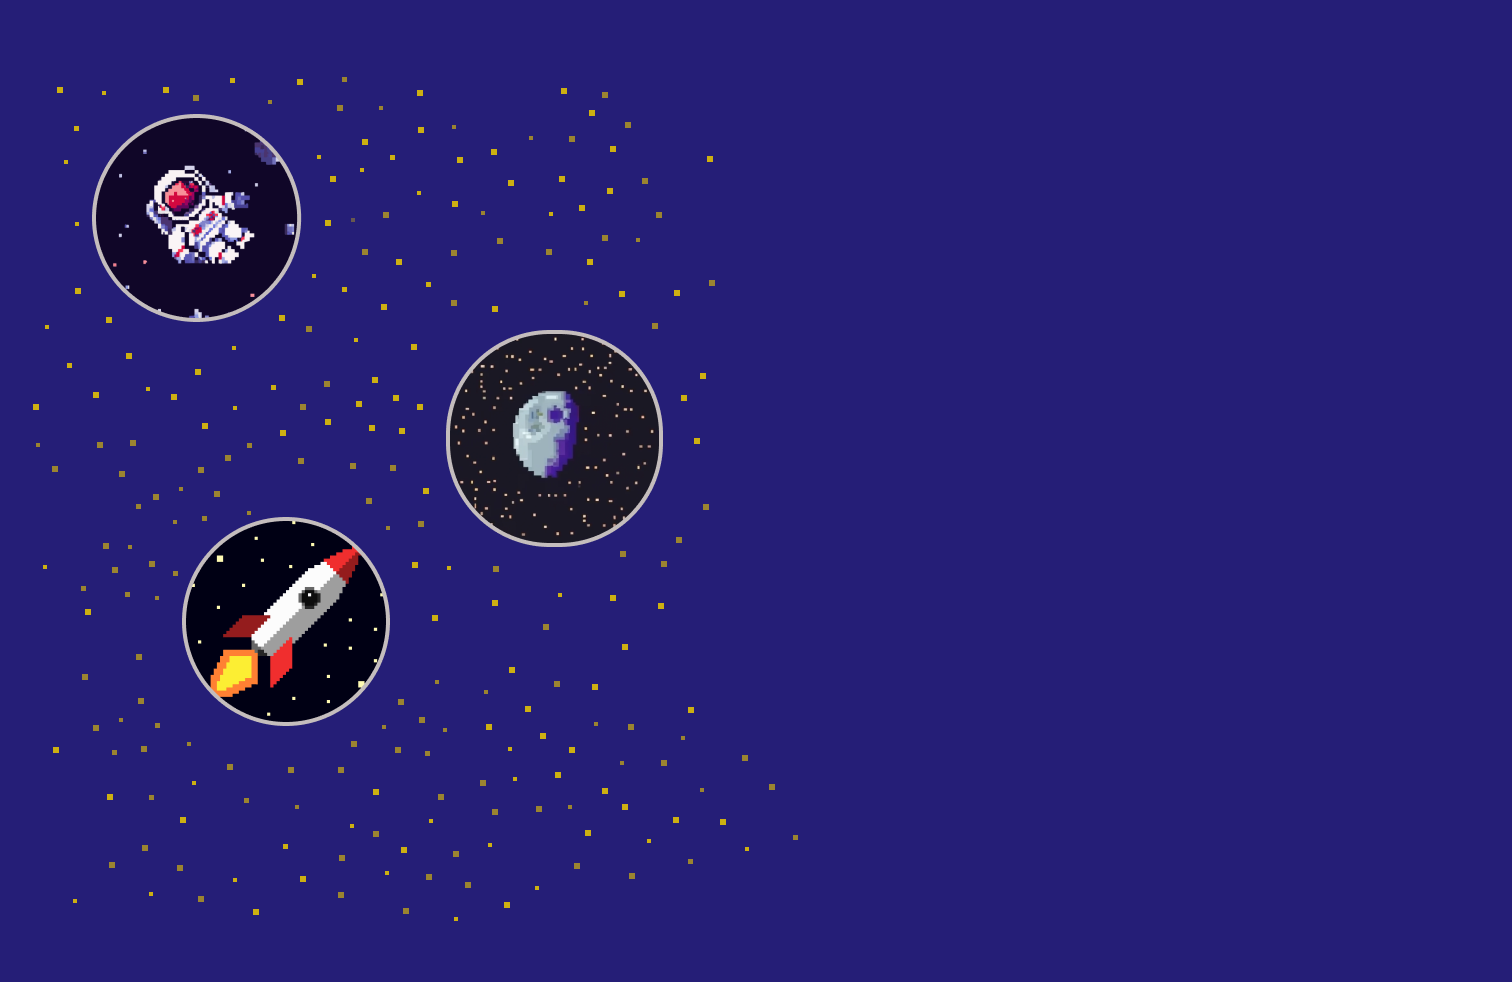
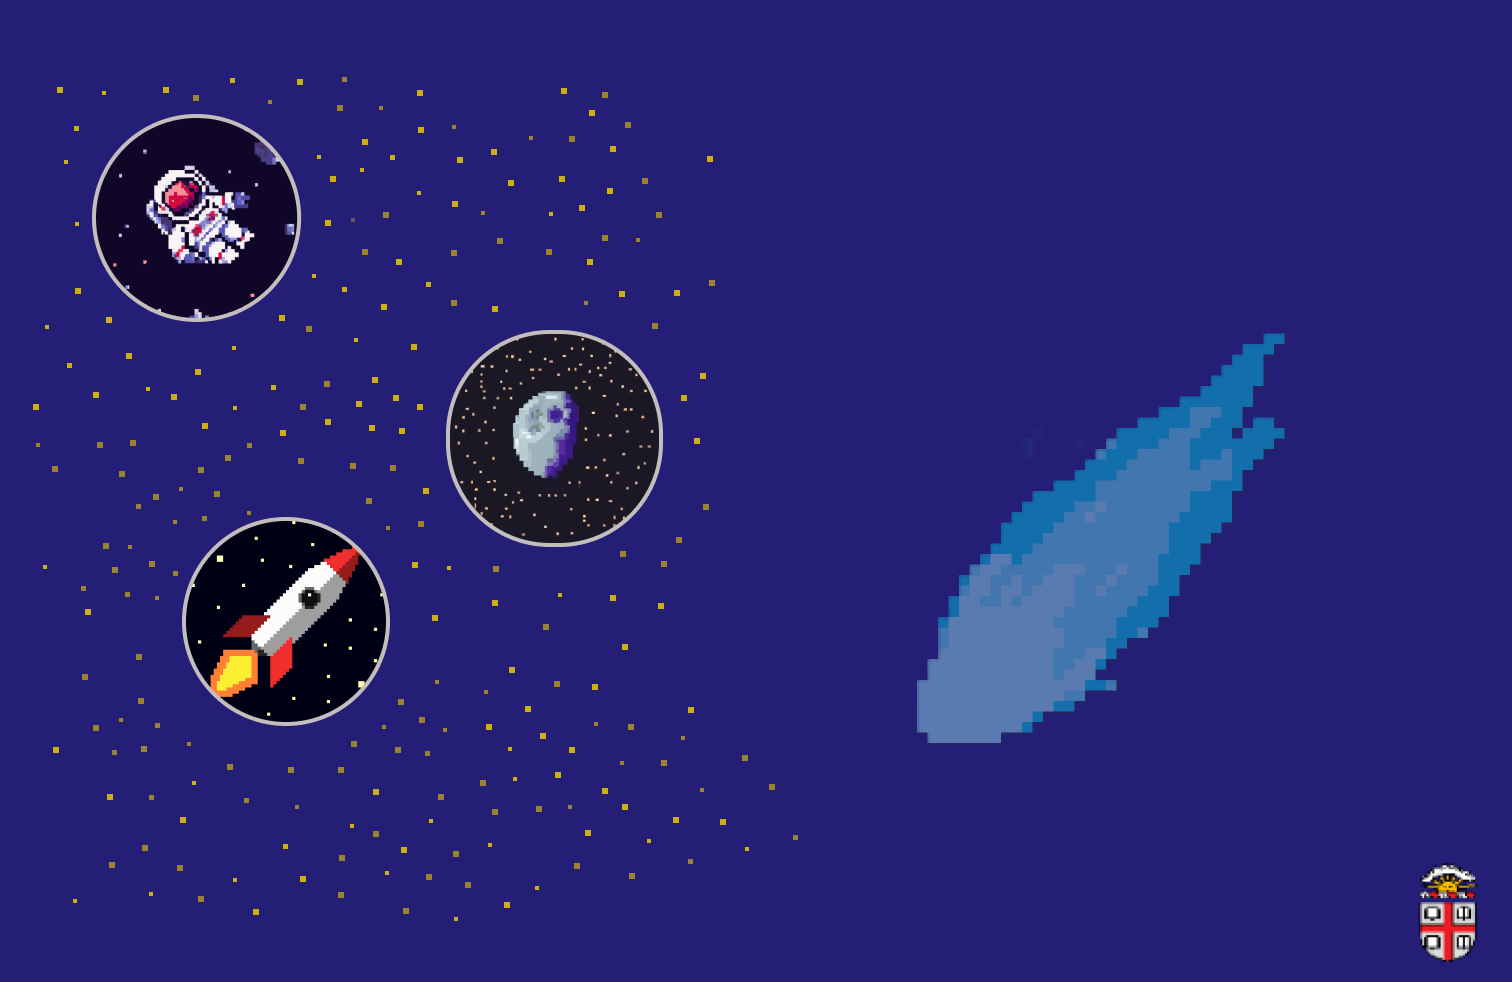
layout for results

Changed region(s): [[0.5906, 0.336, 0.8704, 0.7637], [0.9325, 0.8859, 0.9947, 0.9776]]

diff --git a/hackbrown/src/pages/Feedback.jsx b/hackbrown/src/pages/Feedback.jsx
@@ -1,11 +1,110 @@
 import React from "react";
 import Navbar from "../components/Navbar";
+import logoImage from "../assets/brownlogo.png";
+import emailjs from "emailjs-com";
 
 const Feedback = () => {
+  emailjs.init("ohywxfySYEwoUO--2");
+  const containerStyle = {
+    fontFamily: "'Inter', sans-serif", // Apply Inter font to the entire component
+    backgroundImage: "url('src/assets/homepage-background.png')",
+    backgroundSize: "100% 100%",
+    backgroundRepeat: "no-repeat",
+    height: "100vh", // Set the height to cover the entire viewport height"
+    display: "flex",
+    flexDirection: "column", // If you want to stack Navbar and content vertically
+  };
+
+  const handleSubmit = async (event) => {
+    event.preventDefault();
+
+    // Your EmailJS service ID
+    const serviceId = "service_3kjzo0l";
+
+    // Your EmailJS template ID
+    const templateId = "template_pqnrhll";
+
+    try {
+      const response = await emailjs.sendForm(
+        serviceId,
+        templateId,
+        event.target // Pass the form data using event.target
+      );
+
+      // Log success or handle response as needed
+      console.log("Email sent successfully:", response);
+
+      // Clear form fields after submission
+      event.target.reset();
+    } catch (error) {
+      console.error("Error sending email:", error);
+    }
+  };
+
   return (
-    <div>
+    <div style={containerStyle} className="flex flex-col h-lvh">
       <Navbar />
-      <h1>this is feedback page</h1>
+      <div className="flex flex-row">
+        <div className="w-1/2"></div>
+        <div className="mx-20 flex flex-col flex-grow w-1/2 p-2 h-lvh space-y-8">
+          <h2 className="mb-4 text-4xl tracking-tight font-extrabold text-center text-white">
+            Contact Us
+          </h2>
+          <p className="mb-8 lg:mb-16 font-light text-center text-gray-400 sm:text-xl"></p>
+          <form onSubmit={handleSubmit} className="space-y-8">
+            <div>
+              <label
+                for="hackatbrown1@gmail.com"
+                class="block mb-2 text-sm font-medium text-gray-300"
+              >
+                Your email
+              </label>
+              <input
+                type="email"
+                id="message"
+                class="shadow-sm p-3 w-full bg-white border-gray-600 placeholder-gray-400 text-gray-600 focus:ring-primary-500 focus: border-primary-500 shadow-sm-light rounded-lg"
+                placeholder="name@flowbite.com"
+                required
+              />
+            </div>
+            <div>
+              <label
+                for="subject"
+                class="block mb-2 text-sm font-medium text-gray-300 ri"
+              >
+                Subject
+              </label>
+              <input
+                type="text"
+                id="subject"
+                class="block p-3 w-full text-sm bg-white border-gray-600 placeholder-gray-400 text-gray-600 focus:ring-primary-500 focus:border-primary-500 shadow-sm-light rounded-lg"
+                placeholder="Let us know how we can help you"
+                required
+              ></input>
+            </div>
+            <div>
+              <label
+                for="message"
+                class="block mb-2 text-sm font-medium text-white"
+              >
+                Your message
+              </label>
+              <textarea
+                id="message"
+                rows="6"
+                class="block p-2.5 w-full text-sm bg-white text-gray-600 bg-primary-600 placeholder-gray-400 focus:ring-primay-500 focus:border-primary-500 rounded-lg"
+                placeholder="Leave a comment..."
+              ></textarea>
+            </div>
+            <button
+              type="submit"
+              class="py-3 px-5 text-sm font-medium text-center text-white bg-blue-700 bg-primary-600 hover:bg-primary-700 focus:ring-primary-800 focus:outline-none focus:ring-4 rounded-lg"
+            >
+              Send Message
+            </button>
+          </form>
+        </div>
+      </div>
     </div>
   );
 };

diff --git a/hackbrown/src/pages/About.jsx b/hackbrown/src/pages/About.jsx
@@ -1,11 +1,51 @@
 import React from "react";
 import Navbar from "../components/Navbar";
+import logoImage from "../assets/brownlogo.png";
 
 const About = () => {
+  const containerStyle = {
+    fontFamily: "'Inter', sans-serif", // Apply Inter font to the entire component
+    backgroundImage: "url('src/assets/homepage-background.png')",
+    backgroundSize: "100% 100%",
+    backgroundRepeat: "no-repeat",
+    height: "100vh", // Set the height to cover the entire viewport height"
+    display: "flex",
+    flexDirection: "column", // If you want to stack Navbar and content vertically
+  };
+
   return (
-    <div>
+    <div style={containerStyle} className="flex flex-col h-lvh">
       <Navbar />
-      <h1>this is about page</h1>
+      <div className="flex flex-row">
+        <div className="w-1/2"></div>
+        <div className="mx-20 flex flex-col flex-grow w-1/2 p-2 h-lvh space-y-8">
+          <h1 className="text-white text-2xl">
+            Hi! Our names are Nick Klatsky '25, Morgan Lo '25, Adam Lalani '26,
+            and Christopher Chen '26. We are a group of{" "}
+            <span className="italic">mostly</span> first time hackers!
+          </h1>
+          <h1 className="text-white text-lg">
+            We decided to create _______ in order to create a website for
+            students at Brown University to easily access information about
+            events here. Oftentimes, many events go unnoticed by students
+            because information about the events were not communicated with
+            them. Maybe they didn't sign up for the emailing list, or maybe they
+            were too busy to see it. Whatever the case, this website has access
+            to a database of club events and displays them to students based off
+            of specific tags that they may input.
+          </h1>
+          <h1 className="text-white text-lg">
+            Backend: This project uses python for backend development and relies on the
+            NTLK, Scikit-learn, and the chatgpt API to compute a search
+            algorithm.
+          </h1>
+          <h1 className="text-white text-lg">
+            Frontend: This project was created with HTML/JS/React with the Tailwind CSS
+            Framework. Initial designs for the general website layout were
+            created in Figma.
+          </h1>
+        </div>
+      </div>
     </div>
   );
 };

diff --git a/hackbrown/src/App.jsx b/hackbrown/src/App.jsx
@@ -1,6 +1,6 @@
 import React from "react";
 import Navbar from "./components/Navbar";
-import logoImage from "./assets/pxArt.png";
+import logoImage from "./assets/brownlogo.png";
 import Searchbar from "./components/Searchbar";
 
 const App = () => {
@@ -13,12 +13,7 @@ const App = () => {
     display: "flex",
     flexDirection: "column", // If you want to stack Navbar and content vertically
   };
-
-  const secondContainerStyle = {
-    backgroundImage: "url('src/assets/comet.png')",
-    backgroundRepeat: "no-repeat",
-    backgorundSize: "100% 100%",
-  };
+  
   return (
     <div style={containerStyle} className="flex flex-col h-lvh">
       <Navbar />
@@ -26,7 +21,7 @@ const App = () => {
         <div className="w-1/2"></div>
         <div
           className="ml-6 flex flex-col flex-grow w-1/2 p-2 justify-center h-lvh space-y-8"
-          style={secondContainerStyle}
+
         >
           <div className="flex flex-col mb-8">
             <h1 className="text-white text-6xl font-bold mb-4">
@@ -46,11 +41,11 @@ const App = () => {
             <span className="underline cursor-pointer">here</span> for random
             fun...
           </p>
-          <img
+          {/* <img
             src={logoImage}
             alt="Brown logo"
             className="absolute bottom-5 right-5 w-40 " // would need to crop the image...
-          />
+          /> */}
         </div>
       </div>
     </div>

diff --git a/hackbrown/tailwind.config.js b/hackbrown/tailwind.config.js
@@ -9,7 +9,40 @@ export default {
     // },
     extend: {
       fontFamily: {
-        sans: ["Inter var", ...defaultTheme.fontFamily.sans],
+        body: [
+          "Inter",
+          "ui-sans-serif",
+          "system-ui",
+          "-apple-system",
+          "system-ui",
+          "Segoe UI",
+          "Roboto",
+          "Helvetica Neue",
+          "Arial",
+          "Noto Sans",
+          "sans-serif",
+          "Apple Color Emoji",
+          "Segoe UI Emoji",
+          "Segoe UI Symbol",
+          "Noto Color Emoji",
+        ],
+        sans: [
+          "Inter",
+          "ui-sans-serif",
+          "system-ui",
+          "-apple-system",
+          "system-ui",
+          "Segoe UI",
+          "Roboto",
+          "Helvetica Neue",
+          "Arial",
+          "Noto Sans",
+          "sans-serif",
+          "Apple Color Emoji",
+          "Segoe UI Emoji",
+          "Segoe UI Symbol",
+          "Noto Color Emoji",
+        ],
       },
     },
   },

diff --git a/hackbrown/src/pages/Resultpage.jsx b/hackbrown/src/pages/Resultpage.jsx
@@ -1,0 +1,29 @@
+import React from "react";
+import React, { useState, useEffect } from "react";
+import Result from "../components/Result.jsx";
+
+const Resultpage = () => {
+  const [searchResults, setSearchResults] = useState([]);
+
+  const containerStyle = {
+    fontFamily: "'Inter', sans-serif", 
+    backgroundImage: "url('src/assets/result-background.png')",
+    backgroundSize: "100% 100%",
+    backgroundRepeat: "no-repeat",
+    height: "100vh", 
+    display: "flex",
+    flexDirection: "column", 
+  };
+  return (
+    <div style={containerStyle} className="flex flex-col h-lvh">
+      <Navbar />
+      <div className="flex-col space-y-8 w-full">
+        {searchResults.map((result) => (
+          <Result key={result.id} data={result} />
+        ))}
+      </div>
+    </div>
+  );
+};
+
+export default Resultpage;

diff --git a/hackbrown/src/components/Searchbar.jsx b/hackbrown/src/components/Searchbar.jsx
@@ -3,15 +3,6 @@ import magnifyingImage from "../assets/mangifyingglass.png";
 
 const Searchbar = () => {
   return (
-    // <div className="flex flex-grow w-full bg-white relative rounded items-center justify-center">
-    //   <div className="flex items-center absolute ">
-    //     <img src={magnifyingImage} alt="Magnifying Glass" className="w-6 h-6" />
-    //     <textarea
-    //       placeholder="Enter here"
-    //       className="flex flex-grow h-18 w-full rounded-lg resize-none outline-none p-4 pl-12" // Add pl-12 for left padding
-    //     />
-    //   </div>
-    // </div>
     <div className="flex w-4/5 bg-white rounded-lg h-20 p-4 items-center">
       <img src={magnifyingImage} alt="Magnifying Glass" className="w-6 h-6" />
       <textarea 

diff --git a/hackbrown/src/components/Result.jsx b/hackbrown/src/components/Result.jsx
@@ -1,0 +1,14 @@
+import React from "react";
+
+const Result = () => {
+  return (
+    <div className="w-3/5 h-64 rounded-lg bg-white flex flex-col">
+        <h1>insert name of event</h1>
+        <p>insert description of event</p>
+        <h1>insert location of event</h1>
+        <h1>insert date of event</h1>
+    </div>
+  );
+};
+
+export default Result;
